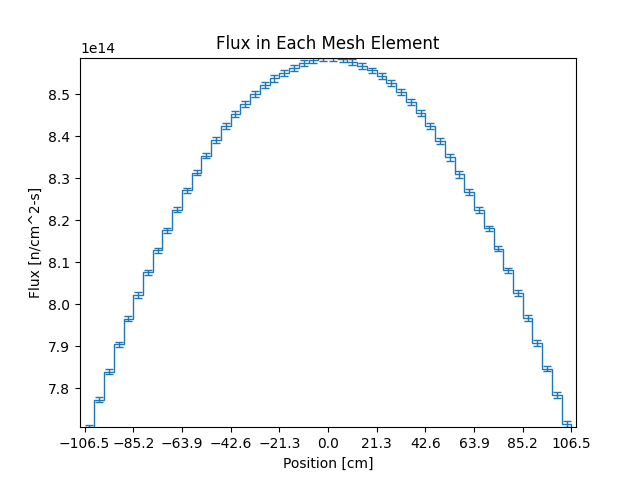
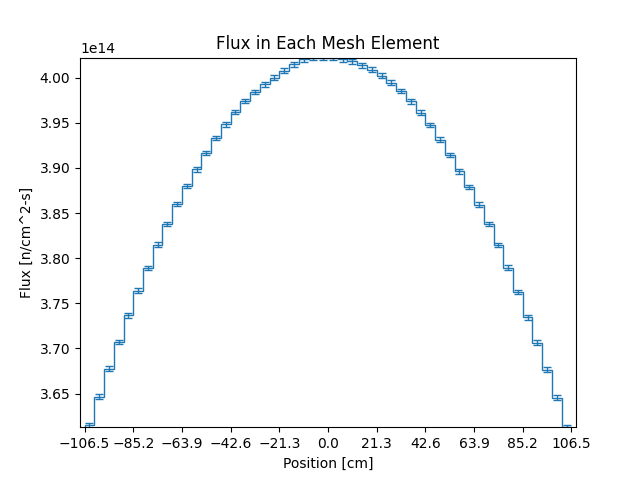
updated infdim so 1D power integral is valid. confirmed that we need to divide the openmc flux by the volume of each voxel TODO compute error from analytical solution

diff --git a/50/plot_results.py b/50/plot_results.py
@@ -5,7 +5,7 @@ import matplotlib.pyplot as plt
 # paramters for analytical solution
 T0 = 293
 L = 106.47 # equilibrium length from paper
-infdim = 50.0 # length at which the reflective boundary conditions will be to simulate infiniteness in YZ dimension
+infdim = 1.0 # relective boundary at each end to simulate infiniteness, but needs to be 1 for 1D power integral to hold 
 P = 1.0e22 # eV/s
 q = 1e8 # eV
 k0= 1.25e19 # eV/(s-cm-K^2) k(T) = k0 T(x)
@@ -14,7 +14,7 @@ eV_to_J = 1.602e-19 # J per eV
 lam = 0.5*(1+np.sqrt(1+(16*q*q*phi0*phi0)/(P*P)))
 
 # Load statepoint file and get the number of bins
-sp = openmc.StatePoint('statepoint.300.h5')
+sp = openmc.StatePoint('statepoint.319.h5')
 
 # grab mesh tally from tally 1 get scores for each flux
 tally_1 = sp.get_tally()
@@ -33,7 +33,7 @@ V_voxel = (L*infdim*infdim)/num_voxels
 # print(V_voxel)
 c = P/system_tallied_power.mean[0]
 # print("c = ",c)
-flux = c*flux#/V_voxel TODO figure out about V_voxel, tbh could just be unconverged flux?
+flux = c*flux/V_voxel
 flux_min = min(flux.mean)
 flux_max = max(flux.mean)
 flux.std_dev.shape= (num_voxels)
@@ -61,6 +61,7 @@ plt.hist(flux_relative_error[nonzero], bins=50)
 plt.title('Relative Error Distribution for Flux')
 plt.xlabel('Relative Error')
 plt.ylabel('Frequency')
+
 # TODO compute error from analytical solutioin
 xx = np.linspace(-L,L,num_voxels)
 analytical_flux = phi0*np.sqrt(np.ones(num_voxels)-((lam-1)*P*P*np.multiply(xx,xx))/(L*L*q*q*phi0*phi0))

diff --git a/50/README.md b/50/README.md
@@ -8,3 +8,6 @@
 `mpiexec -np 4 ~/cardinal/cardinal-opt -i openmc_50.i --n-threads=10`
 ### just solid subapp
 `mpiexec -np 4 ~/cardinal/cardinal-opt -i solid_50.i --n-threads=10`
+
+### On obtaining the flux results
+Run the script via `python plot_results.py`. Note now that triggers have been turned on, the statepoint file used to plot the flux will need to be manually entered (unless I put in a command line argument for it sometime later)
